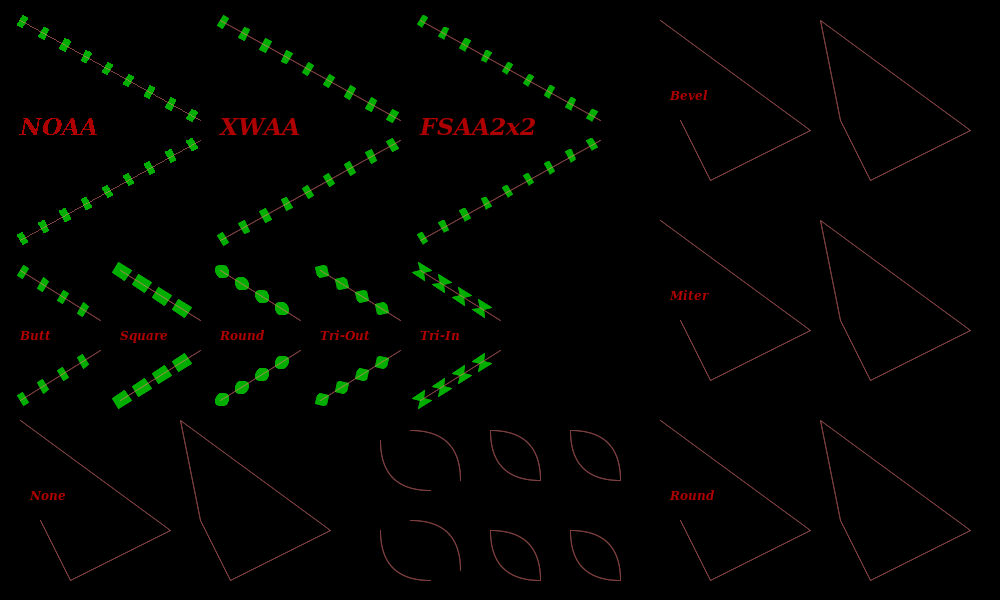
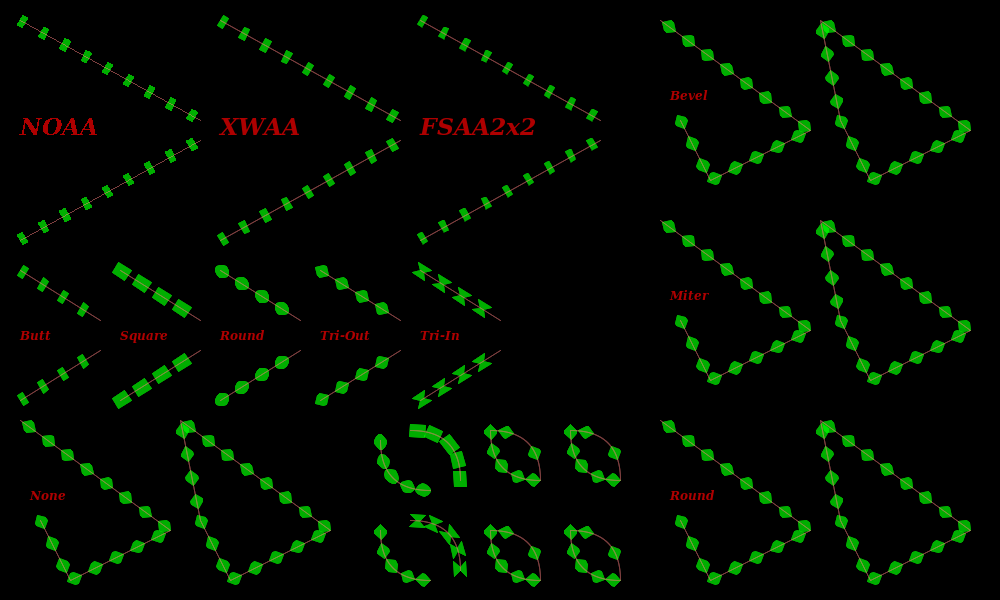
Working on thick polygon

diff --git a/src/Pt-Gfx/tests/ImagePainterTest2_Draw_Thick.cpp b/src/Pt-Gfx/tests/ImagePainterTest2_Draw_Thick.cpp
@@ -39,7 +39,6 @@ static void testDrawThickLine_impl(
     painter.drawLine( PointF( 20,  20), PointF(200, 120) );
     painter.drawLine( PointF( 20, 240), PointF(200, 140) );
     if(true) {
-        //penRef.setStyle(painter.pen().style());
         painter.setPen(penRef);
         painter.drawLine( PointF( 20,  20), PointF(200, 120) );
         painter.drawLine( PointF( 20, 240), PointF(200, 140) );
@@ -51,7 +50,6 @@ static void testDrawThickLine_impl(
     painter.drawLine( PointF(220,  20), PointF(400, 120) );
     painter.drawLine( PointF(220, 240), PointF(400, 140) );
     if(true) {
-        //penRef.setStyle(painter.pen().style());
         painter.setPen(penRef);
         painter.drawLine( PointF(220,  20), PointF(400, 120) );
         painter.drawLine( PointF(220, 240), PointF(400, 140) );
@@ -63,7 +61,6 @@ static void testDrawThickLine_impl(
     painter.drawLine( PointF(420,  20), PointF(600, 120) );
     painter.drawLine( PointF(420, 240), PointF(600, 140) );
     if(true) {
-        //penRef.setStyle(painter.pen().style());
         painter.setPen(penRef);
         painter.drawLine( PointF(420,  20), PointF(600, 120) );
         painter.drawLine( PointF(420, 240), PointF(600, 140) );
@@ -78,7 +75,6 @@ static void testDrawThickLine_impl(
     painter.drawLine( PointF( 20, 300 - 30), PointF(100, 350 - 30) );
     painter.drawLine( PointF( 20, 430 - 30), PointF(100, 380 - 30) );
     if(true) {
-        //penRef.setStyle(painter.pen().style());
         painter.setPen(penRef);
         painter.drawLine( PointF( 20, 300 - 30), PointF(100, 350 - 30) );
         painter.drawLine( PointF( 20, 430 - 30), PointF(100, 380 - 30) );
@@ -89,7 +85,6 @@ static void testDrawThickLine_impl(
     painter.drawLine( PointF(120, 300 - 30), PointF(200, 350 - 30) );
     painter.drawLine( PointF(120, 430 - 30), PointF(200, 380 - 30) );
     if(true) {
-        //penRef.setStyle(painter.pen().style());
         painter.setPen(penRef);
         painter.drawLine( PointF(120, 300 - 30), PointF(200, 350 - 30) );
         painter.drawLine( PointF(120, 430 - 30), PointF(200, 380 - 30) );
@@ -100,7 +95,6 @@ static void testDrawThickLine_impl(
     painter.drawLine( PointF(220, 300 - 30), PointF(300, 350 - 30) );
     painter.drawLine( PointF(220, 430 - 30), PointF(300, 380 - 30) );
     if(true) {
-        //penRef.setStyle(painter.pen().style());
         painter.setPen(penRef);
         painter.drawLine( PointF(220, 300 - 30), PointF(300, 350 - 30) );
         painter.drawLine( PointF(220, 430 - 30), PointF(300, 380 - 30) );
@@ -111,7 +105,6 @@ static void testDrawThickLine_impl(
     painter.drawLine( PointF(320, 300 - 30), PointF(400, 350 - 30) );
     painter.drawLine( PointF(320, 430 - 30), PointF(400, 380 - 30) );
     if(true) {
-        //penRef.setStyle(painter.pen().style());
         painter.setPen(penRef);
         painter.drawLine( PointF(320, 300 - 30), PointF(400, 350 - 30) );
         painter.drawLine( PointF(320, 430 - 30), PointF(400, 380 - 30) );
@@ -122,18 +115,19 @@ static void testDrawThickLine_impl(
     painter.drawLine( PointF(420, 300 - 30), PointF(500, 350 - 30) );
     painter.drawLine( PointF(420, 430 - 30), PointF(500, 380 - 30) );
     if(true) {
-        //penRef.setStyle(painter.pen().style());
         painter.setPen(penRef);
         painter.drawLine( PointF(420, 300 - 30), PointF(500, 350 - 30) );
         painter.drawLine( PointF(420, 430 - 30), PointF(500, 380 - 30) );
     }
     painter.setPen(penText); painter.drawText( PointF(420, 370 - 30), "Tri-In" );
 
+//#define MINI_TEST
+
     // Test joins
     painter.setPen(penOCapBJoin);
-
+#ifdef MINI_TEST
     painter.setPen(penBCapBJoin);
-
+#endif
     const PointF poly1a[] = { // CCW
         PointF(670 + 10, 120),
         PointF(700 + 10, 180),
@@ -148,11 +142,11 @@ static void testDrawThickLine_impl(
         if(ip2) ip2->drawPolyline( poly1a, sizeof(poly1a) / sizeof(poly1a[0]), false );
         else painter.drawPolyline( poly1a, sizeof(poly1a) / sizeof(poly1a[0]) );
     }
-
+#ifdef MINI_TEST
     painter.setFont( Pt::Gfx::Font(FONT_SPEC_N) );
     sdlPreviewRGB888Buffer(title, image.data(), image.width(), image.height(), !!dynamic_cast<ImagePainter2*>(&painter));
     return;
-
+#endif
 
     painter.setPen(penOCapBJoin);
     const PointF poly1b[] = { // CCW
@@ -235,37 +229,35 @@ static void testDrawThickLine_impl(
 
     painter.setPen(penText); painter.drawText( PointF(650 + 20, 100 + 400), "Round" );
 
-    painter.setPen(penOCapNJoin);
-    const PointF poly4a[] = { // CCW
-        PointF(670 - 600 - 30, 120 + 400),
-        PointF(700 - 600 - 30, 180 + 400),
-        PointF(800 - 600 - 30, 130 + 400),
-        PointF(650 - 600 - 30,  20 + 400)
-    };
-    if(ip2) ip2->drawPolyline( poly4a, sizeof(poly4a) / sizeof(poly4a[0]), false );
-    else painter.drawPolyline( poly4a, sizeof(poly4a) / sizeof(poly4a[0]) );
-    if(true) {
-        painter.setPen(penRef);
-        if(ip2) ip2->drawPolyline( poly4a, sizeof(poly4a) / sizeof(poly4a[0]), false );
-        else painter.drawPolyline( poly4a, sizeof(poly4a) / sizeof(poly4a[0]) );
-    }
+    if(ip2) { // This hoin type is not supported by the old painter
+        ip2->setPen(penOCapNJoin);
+        const PointF poly4a[] = { // CCW
+            PointF(670 - 600 - 30, 120 + 400),
+            PointF(700 - 600 - 30, 180 + 400),
+            PointF(800 - 600 - 30, 130 + 400),
+            PointF(650 - 600 - 30,  20 + 400)
+        };
+        ip2->drawPolyline( poly4a, sizeof(poly4a) / sizeof(poly4a[0]), false );
+        if(true) {
+            painter.setPen(penRef);
+            ip2->drawPolyline( poly4a, sizeof(poly4a) / sizeof(poly4a[0]), false );
+        }
 
-    painter.setPen(penOCapNJoin);
-    const PointF poly4b[] = { // CCW
-        PointF(670 - 430 - 40, 120 + 400),
-        PointF(700 - 430 - 40, 180 + 400),
-        PointF(800 - 430 - 40, 130 + 400),
-        PointF(650 - 430 - 40,  20 + 400)
-    };
-    if(ip2) ip2->drawPolyline( poly4b, sizeof(poly4b) / sizeof(poly4b[0]), true );
-    else painter.drawPolyline( poly4b, sizeof(poly4b) / sizeof(poly4b[0]) );
-    if(true) {
-        painter.setPen(penRef);
-        if(ip2) ip2->drawPolyline( poly4b, sizeof(poly4b) / sizeof(poly4b[0]), true );
-        else painter.drawPolyline( poly4b, sizeof(poly4b) / sizeof(poly4b[0]) );
-    }
+        ip2->setPen(penOCapNJoin);
+        const PointF poly4b[] = { // CCW
+            PointF(670 - 430 - 40, 120 + 400),
+            PointF(700 - 430 - 40, 180 + 400),
+            PointF(800 - 430 - 40, 130 + 400),
+            PointF(650 - 430 - 40,  20 + 400)
+        };
+        ip2->drawPolyline( poly4b, sizeof(poly4b) / sizeof(poly4b[0]), true );
+        if(true) {
+            ip2->setPen(penRef);
+            ip2->drawPolyline( poly4b, sizeof(poly4b) / sizeof(poly4b[0]), true );
+        }
 
-    painter.setPen(penText); painter.drawText( PointF(650 - 600 - 20, 100 + 400), "None" );
+        ip2->setPen(penText); painter.drawText( PointF(650 - 600 - 20, 100 + 400), "None" );
+    }
 
     // Test bezier
     if(ip2) {

diff --git a/src/Pt-Gfx/ImagePainter2.cpp b/src/Pt-Gfx/ImagePainter2.cpp
@@ -1426,6 +1426,7 @@ struct ImagePainter2::SAGOpState {
     size_t               idx1;      // Index to the first point which is currently being processed
     size_t               idx2;      // Index to the second point which is currently being processed
     float                px, py;    // Current interpolation coordinate (in-between the two points)
+    float                ex, ey;    // Current end coordinate (coordinate of the the second point)
     float                cvx, cvy;  // Cell vector from the first point to the second point
     float                cvl;       // Length of the cell vector
     float                remDist;   // Remaining distance between the two points that has not been "consumed" by the "pattern" segment(s)
@@ -1441,6 +1442,18 @@ struct ImagePainter2::SAGOpState {
 
 bool ImagePainter2::thickenPatternedPolygon(std::vector<PointF>& pointsF, const PointF* src, size_t pointCount)
 {
+    Pt::int32_t piCtrInOut = 0;
+
+    for(size_t i = 0; i < pointCount - 1; ++i) {
+        const PointF& p1 = *(src + i + 0);
+        const PointF& p2 = *(src + i + 1);
+        generatePatternedLineSegment(pointsF, p1.x(), p1.y(), p2.x(), p2.y(), piCtrInOut);
+    }
+
+    // Done
+    return true;
+
+    /*
     // Calculate the cell size
     const float cellSize = _rasterizer->pen().size() * 0.5f;
 
@@ -1477,6 +1490,7 @@ bool ImagePainter2::thickenPatternedPolygon(std::vector<PointF>& pointsF, const 
 
     // Done
     return true;
+    */
 }
 
 bool ImagePainter2::sagPolygonPoints(SAGOpState& state, bool draw)
@@ -1501,6 +1515,8 @@ bool ImagePainter2::sagPolygonPoints(SAGOpState& state, bool draw)
             // Initialize some part of the operational state
             state.px      = x1;
             state.py      = y1;
+            state.ex      = x2;
+            state.ey      = y2;
             state.cvx     = vx / round(vz / state.cellSize) * 2;
             state.cvy     = vy / round(vz / state.cellSize) * 2;
             state.cvl     = Gfx::Math::fastSqrt(state.cvx * state.cvx + state.cvy * state.cvy);
@@ -1511,6 +1527,11 @@ bool ImagePainter2::sagPolygonPoints(SAGOpState& state, bool draw)
             // Store the current interpolation coordinate to the "gather" buffer
             state.gather.push_back(PointF(state.px, state.py));
             lprintf("    Gather A  : patSegLen = %5.1f ; remDist = %5.1f ; point = (%5.1f, %5.1f) from [%2zd, %2zd]; new gather.size() = %zd\n", state.patSegLen, state.remDist, state.px, state.py, state.idx1, state.idx2, state.gather.size());
+
+            // Store the current end coordinate to the "gather" buffer
+            //state.gather.push_back(PointF(state.ex, state.ey));
+            //lprintf("    Gather Ae : patSegLen = %5.1f ; remDist = %5.1f ; point = (%5.1f, %5.1f) from [%2zd, %2zd]; new gather.size() = %zd\n", state.patSegLen, state.remDist, state.px, state.py, state.idx1, state.idx2, state.gather.size());
+
             //
             state.patSegLen -= state.remDist;
             state.remDist    = -1.0f;
@@ -1528,11 +1549,13 @@ bool ImagePainter2::sagPolygonPoints(SAGOpState& state, bool draw)
         // Perform "spread" operation
         // --- Check if the "gather" buffer is not empty ---
         if(!state.gather.empty()) {
+
             // Store the current interpolation coordinate to the "gather" buffer
             state.gather.push_back(PointF(state.px, state.py));
+
             lprintf("    Gather B  : patSegLen = %5.1f ; remDist = %5.1f ; point = (%5.1f, %5.1f) from [%2zd, %2zd]; new gather.size() = %zd\n", state.patSegLen, state.remDist, state.px, state.py, state.idx1, state.idx2, state.gather.size());
             //
-            if(draw) {
+            if(true || draw) {
                 // Add polygon separator point as needed
                 if(!state.dstPoints.empty()) state.dstPoints.push_back(Painter::PolygonSeparatorPointF);
                 //
@@ -1549,7 +1572,7 @@ bool ImagePainter2::sagPolygonPoints(SAGOpState& state, bool draw)
         // --- The "gather" buffer is empty, generate a simple line segment as needed ---
         else {
             if(draw) {
-                sagGenerateSimpleLineSegment(state, state.px, state.py, state.px + state.cvx * 0.5f, state.py + state.cvy * 0.5f);
+               // sagGenerateSimpleLineSegment(state, state.px, state.py, state.px + state.cvx * 0.5f, state.py + state.cvy * 0.5f);
                 lprintf("    Line Draw : patSegLen = %5.1f ; remDist = %5.1f ; line (%5.1f, %5.1f) - (%5.1f, %5.1f)\n", state.patSegLen, state.remDist, state.px, state.py, state.px + state.cvx, state.py + state.cvy);
             }
             else {

diff --git a/src/Pt-Gfx/tests/ImagePainterTest2.cpp b/src/Pt-Gfx/tests/ImagePainterTest2.cpp
@@ -68,7 +68,7 @@ using namespace Pt::Gfx;
 
 // General settings for Pt-Gfx
 #define DO_TEST_DRAW    1
-#define DO_BENCHMARKING 0
+#define DO_BENCHMARKING 1
 
 // Detailed-test enable settings for Pt-Gfx
 #define TEST_SOURCECOPY                         1
@@ -118,8 +118,8 @@ using namespace Pt::Gfx;
 
 #define BENCHMARK_SOLID_BEZIER              0
 #define BENCHMARK_PATTERNED_BEZIER          0
-#define BENCHMARK_SOLID_THICK_BEZIER        1
-#define BENCHMARK_PATTERNED_THICK_BEZIER    1
+#define BENCHMARK_SOLID_THICK_BEZIER        0
+#define BENCHMARK_PATTERNED_THICK_BEZIER    0
 
 #define BENCHMARK_RECTANGLE                 0
 #define BENCHMARK_SOLID_FILLED_RECTANGLE    0
@@ -249,22 +249,38 @@ int main(int argc, char* args[])
     if((!DO_BENCHMARKING || !BENCHMARK_RESULT_HTML) && DO_TEST_DRAW && TEST_SOURCECOPY && TEST_DRAW_SOLID_THICK_LINE) {
         painter2->setCompositionMode(CompositionMode::SourceCopy);
         testDrawSolidThickLine("Solid Thick Lines - ImagePainter2 [SourceCopy]", image, *painter2);
+        if(TEST_COMPARE_WITH_OLD_PAINTER) {
+            painter1->setCompositionMode(CompositionMode::SourceCopy);
+            testDrawSolidThickLine("Patterned Lines - ImagePainter [SourceCopy]", image, *painter1);
+        }
     }
 
     if((!DO_BENCHMARKING || !BENCHMARK_RESULT_HTML) && DO_TEST_DRAW && TEST_SOURCEOVER && TEST_DRAW_SOLID_THICK_LINE) {
         painter2->setCompositionMode(CompositionMode::SourceOver);
         testDrawSolidThickLine("Solid Thick Lines - ImagePainter2 [SourceOver]", image, *painter2);
+        if(TEST_COMPARE_WITH_OLD_PAINTER) {
+            painter1->setCompositionMode(CompositionMode::SourceOver);
+            testDrawSolidThickLine("Patterned Lines - ImagePainter [SourceOver]", image, *painter1);
+        }
     }
 
     // Patterned thick lines
     if((!DO_BENCHMARKING || !BENCHMARK_RESULT_HTML) && DO_TEST_DRAW && TEST_SOURCECOPY && TEST_DRAW_PATTERNED_THICK_LINE) {
         painter2->setCompositionMode(CompositionMode::SourceCopy);
         testDrawPatternedThickLine("Patterned Thick Lines - ImagePainter2 [SourceCopy]", image, *painter2);
+        if(TEST_COMPARE_WITH_OLD_PAINTER) {
+            painter1->setCompositionMode(CompositionMode::SourceCopy);
+            testDrawPatternedThickLine("Patterned Lines - ImagePainter [SourceCopy]", image, *painter1);
+        }
     }
 
     if((!DO_BENCHMARKING || !BENCHMARK_RESULT_HTML) && DO_TEST_DRAW && TEST_SOURCEOVER && TEST_DRAW_PATTERNED_THICK_LINE) {
         painter2->setCompositionMode(CompositionMode::SourceOver);
         testDrawPatternedThickLine("Patterned Thick Lines - ImagePainter2 [SourceOver]", image, *painter2);
+        if(TEST_COMPARE_WITH_OLD_PAINTER) {
+            painter1->setCompositionMode(CompositionMode::SourceOver);
+            testDrawPatternedThickLine("Patterned Lines - ImagePainter [SourceOver]", image, *painter1);
+        }
     }
 
     // Rectangles, thick rectangles and filled rectangles

diff --git a/src/Pt-Gfx/tests/ImagePainterTest2_Benchmark_Thick.cpp b/src/Pt-Gfx/tests/ImagePainterTest2_Benchmark_Thick.cpp
@@ -94,15 +94,15 @@ static size_t benchDrawThickLine_impl(
 
         painter.setPen(penRCapBJoin);
         painter.drawLine( PointF( 20, 300 - 30), PointF(100, 350 - 30) );
-        painter.drawLine( PointF( 20, 430 - 30), PointF(100, 370 - 30) );
+        painter.drawLine( PointF( 20, 430 - 30), PointF(100, 380 - 30) );
 
         painter.setPen(penSCapBJoin);
         painter.drawLine( PointF(120, 300 - 30), PointF(200, 350 - 30) );
-        painter.drawLine( PointF(120, 430 - 30), PointF(200, 370 - 30) );
+        painter.drawLine( PointF(120, 430 - 30), PointF(200, 380 - 30) );
 
         painter.setPen(penBCapBJoin);
         painter.drawLine( PointF(220, 300 - 30), PointF(300, 350 - 30) );
-        painter.drawLine( PointF(220, 430 - 30), PointF(300, 370 - 30) );
+        painter.drawLine( PointF(220, 430 - 30), PointF(300, 380 - 30) );
 
         painter.setPen(penBCapBJoin);
         const PointF poly1a[] = { // CCW

diff --git a/src/Pt-Gfx/Rasterizer2_Polygon.cpp b/src/Pt-Gfx/Rasterizer2_Polygon.cpp
@@ -666,7 +666,7 @@ void Rasterizer2::rasterPolygonAreaXWAA(const Point* points, const size_t* point
         // From point N to point (N + 1), successively
         const size_t pc1 = pointCount[p] - 1;
         for(size_t i = 0; i < pc1; ++i) {
-            lprintf("%3d, %3d    %3d, %3d\n", curPointBase[i].x(), curPointBase[i].y(), curPointBase[i + 1].x(), curPointBase[i + 1].y());
+            //lprintf("%3d, %3d    %3d, %3d\n", curPointBase[i].x(), curPointBase[i].y(), curPointBase[i + 1].x(), curPointBase[i + 1].y());
             rasterOnePixelAreaGLineSegmentXWAA(curPointBase[i].x(), curPointBase[i].y(), curPointBase[i + 1].x(), curPointBase[i + 1].y(), color, minX, minY, scanlines, mask_nnp1);
             if(!i) memcpy(&mask_zero, &mask_nnp1, sizeof(mask_zero));
         }
